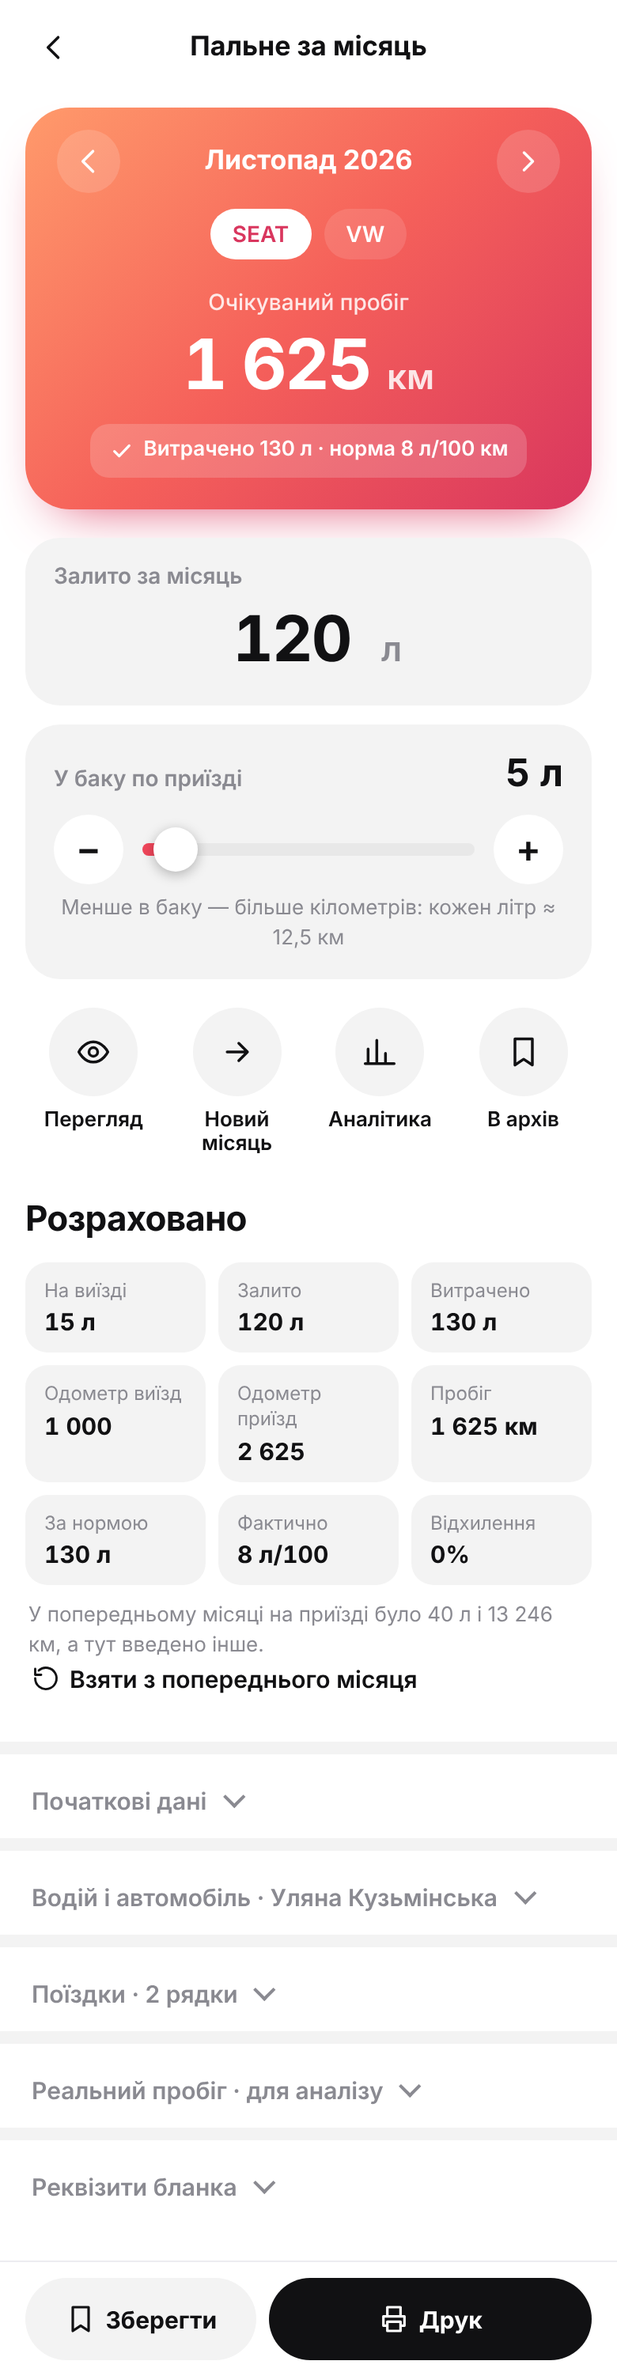
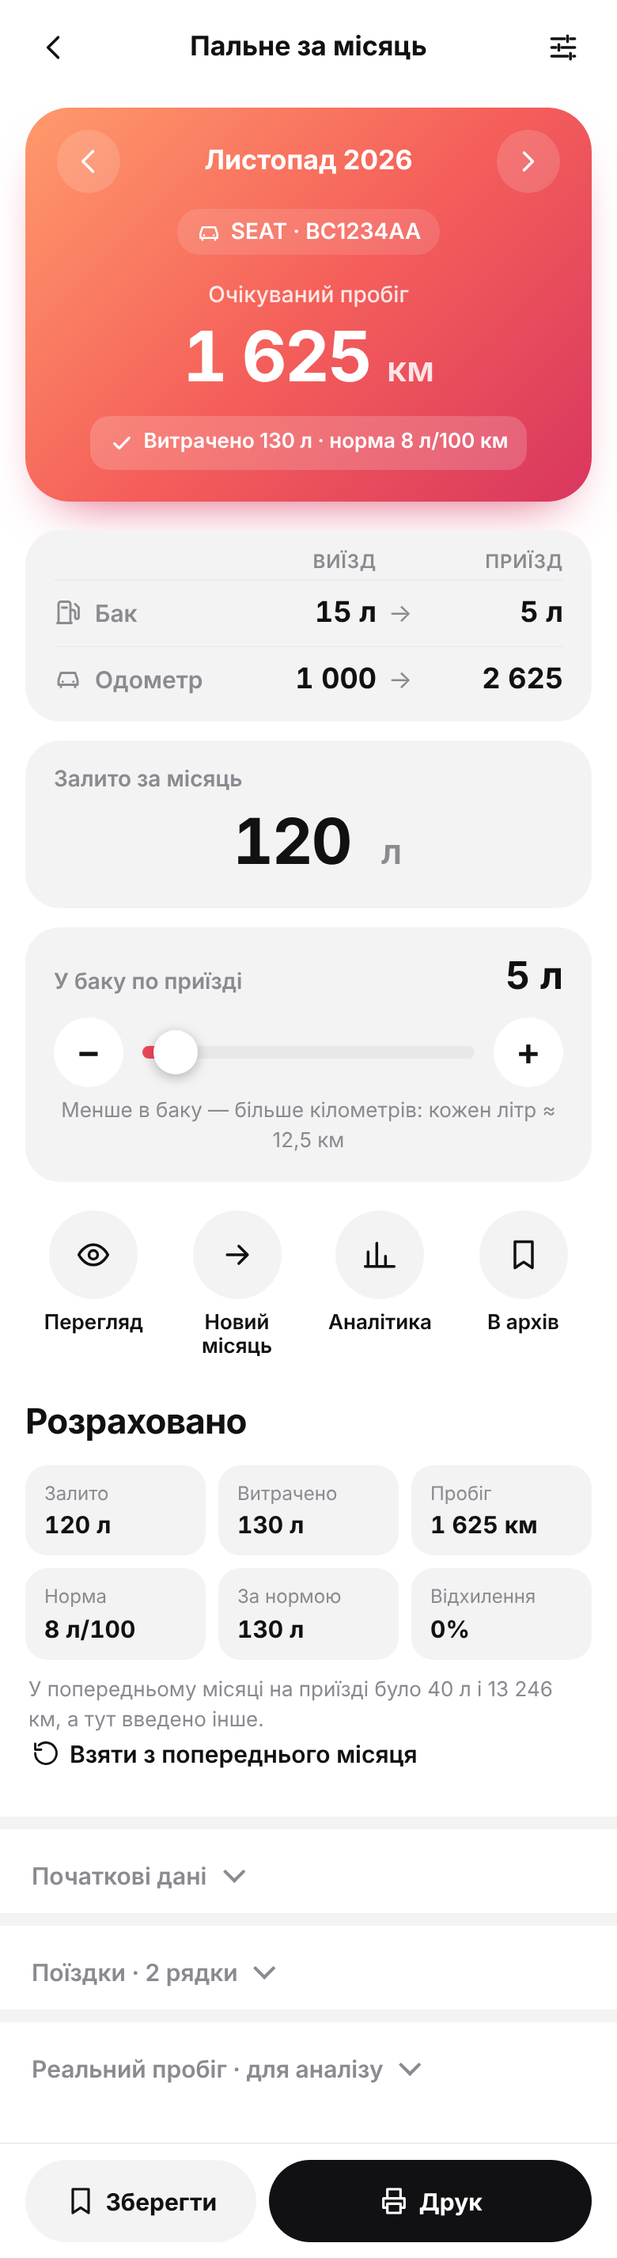
Fuel screen: SEAT only, car settings screen, departure/arrival tank and odometer card
Claude-Session: https://claude.ai/code/session_01MK9Aw3Yig429nqqad2jXvH

diff --git a/dist/app.js b/dist/app.js
@@ -13,13 +13,13 @@ let state=defaults(),storageOK=true,view='home',docType='order',deferredInstall,
 try{const saved=JSON.parse(localStorage.getItem(storageKey)||(session.user.role==='admin'?localStorage.getItem('zvit-v1'):null));if(saved&&saved.version===1&&saved.event&&saved.travel&&Array.isArray(saved.archive))state={...state,...saved,profile:{...state.profile,...saved.profile}}}catch{storageOK=false}
 migrateDirectories(state);
 state.travel.endTarget ??= state.travel.startFuel;state.travel.adjustmentKm ??= 0;
-const parentOf={event:'home',travel:'home',fuel:'travel',contacts:'profile',signer:'profile',accounts:'profile',password:'profile'};
+const parentOf={event:'home',travel:'home',fuel:'travel',carSettings:'travel',contacts:'profile',signer:'profile',accounts:'profile',password:'profile'};
 const rootOf=v=>parentOf[v]?rootOf(parentOf[v]):v;
 function save(){try{localStorage.setItem(storageKey,JSON.stringify(state));storageOK=true}catch{storageOK=false}}
 function toast(msg){$('#toast').textContent=msg;$('#toast').classList.add('show');clearTimeout(toast.timer);toast.timer=setTimeout(()=>$('#toast').classList.remove('show'),4000)}
 
 /* ---------- Іконки ---------- */
-const P={home:'M3 10.5 12 3l9 7.5V20a1 1 0 0 1-1 1h-5v-6H9v6H4a1 1 0 0 1-1-1z',doc:'M7 3h7l5 5v12a1 1 0 0 1-1 1H7a1 1 0 0 1-1-1V4a1 1 0 0 1 1-1zM14 3v5h5M9 13h6M9 17h6',car:'M5 17h14M6 17v2M18 17v2M4 13l2-6h12l2 6v4H4zM7.5 14.5h.01M16.5 14.5h.01',list:'M8 6h12M8 12h12M8 18h12M4 6h.01M4 12h.01M4 18h.01',user:'M12 12a4 4 0 1 0 0-8 4 4 0 0 0 0 8zM4 21a8 8 0 0 1 16 0',users:'M9 11a4 4 0 1 0 0-8 4 4 0 0 0 0 8zM2 21a7 7 0 0 1 14 0M16 3.5a4 4 0 0 1 0 7M18 14a6 6 0 0 1 4 7',right:'m9 6 6 6-6 6',left:'m15 5-7 7 7 7',plus:'M12 5v14M5 12h14',print:'M7 9V3h10v6M7 17H4v-7h16v7h-3M7 14h10v7H7z',eye:'M2 12s3.5-7 10-7 10 7 10 7-3.5 7-10 7S2 12 2 12zM12 15a3 3 0 1 0 0-6 3 3 0 0 0 0 6z',save:'M6 3h12v18l-6-4-6 4z',download:'M12 4v11M7 10l5 5 5-5M5 20h14',upload:'M12 20V9M7 14l5-5 5 5M5 4h14',phone:'M8 2h8a1 1 0 0 1 1 1v18a1 1 0 0 1-1 1H8a1 1 0 0 1-1-1V3a1 1 0 0 1 1-1zM11 18h2',x:'M6 6l12 12M18 6 6 18',building:'M4 21V5a1 1 0 0 1 1-1h9a1 1 0 0 1 1 1v16M15 9h4a1 1 0 0 1 1 1v11M3 21h18M8 8h3M8 12h3M8 16h3',pen:'M4 20h4L19 9l-4-4L4 16zM13 7l4 4',search:'M11 18a7 7 0 1 0 0-14 7 7 0 0 0 0 14zM20 20l-4-4',next:'M5 12h14M13 6l6 6-6 6',check:'M5 12.5l4.5 4.5L19 7',chart:'M4 20V10M10 20V4M16 20v-7M22 20H2',fuel:'M4 21V5a2 2 0 0 1 2-2h6a2 2 0 0 1 2 2v16M3 21h12M14 10h2a2 2 0 0 1 2 2v4a1.5 1.5 0 0 0 3 0V8l-3-3M7 8h4',back:'M3 12a9 9 0 1 0 3-6.7M3 4v5h5',key:'M15 7a4 4 0 1 0-3.5 5.9L10 14.5V17H7.5v2.5H5V21H2v-3l7.1-7.1A4 4 0 0 0 15 7zM16 6h.01',logout:'M15 4h3a2 2 0 0 1 2 2v12a2 2 0 0 1-2 2h-3M10 17l5-5-5-5M15 12H3'};
+const P={sliders:'M4 6h9M17 6h3M4 12h3M11 12h9M4 18h11M19 18h1M15 4v4M9 10v4M17 16v4',home:'M3 10.5 12 3l9 7.5V20a1 1 0 0 1-1 1h-5v-6H9v6H4a1 1 0 0 1-1-1z',doc:'M7 3h7l5 5v12a1 1 0 0 1-1 1H7a1 1 0 0 1-1-1V4a1 1 0 0 1 1-1zM14 3v5h5M9 13h6M9 17h6',car:'M5 17h14M6 17v2M18 17v2M4 13l2-6h12l2 6v4H4zM7.5 14.5h.01M16.5 14.5h.01',list:'M8 6h12M8 12h12M8 18h12M4 6h.01M4 12h.01M4 18h.01',user:'M12 12a4 4 0 1 0 0-8 4 4 0 0 0 0 8zM4 21a8 8 0 0 1 16 0',users:'M9 11a4 4 0 1 0 0-8 4 4 0 0 0 0 8zM2 21a7 7 0 0 1 14 0M16 3.5a4 4 0 0 1 0 7M18 14a6 6 0 0 1 4 7',right:'m9 6 6 6-6 6',left:'m15 5-7 7 7 7',plus:'M12 5v14M5 12h14',print:'M7 9V3h10v6M7 17H4v-7h16v7h-3M7 14h10v7H7z',eye:'M2 12s3.5-7 10-7 10 7 10 7-3.5 7-10 7S2 12 2 12zM12 15a3 3 0 1 0 0-6 3 3 0 0 0 0 6z',save:'M6 3h12v18l-6-4-6 4z',download:'M12 4v11M7 10l5 5 5-5M5 20h14',upload:'M12 20V9M7 14l5-5 5 5M5 4h14',phone:'M8 2h8a1 1 0 0 1 1 1v18a1 1 0 0 1-1 1H8a1 1 0 0 1-1-1V3a1 1 0 0 1 1-1zM11 18h2',x:'M6 6l12 12M18 6 6 18',building:'M4 21V5a1 1 0 0 1 1-1h9a1 1 0 0 1 1 1v16M15 9h4a1 1 0 0 1 1 1v11M3 21h18M8 8h3M8 12h3M8 16h3',pen:'M4 20h4L19 9l-4-4L4 16zM13 7l4 4',search:'M11 18a7 7 0 1 0 0-14 7 7 0 0 0 0 14zM20 20l-4-4',next:'M5 12h14M13 6l6 6-6 6',check:'M5 12.5l4.5 4.5L19 7',chart:'M4 20V10M10 20V4M16 20v-7M22 20H2',fuel:'M4 21V5a2 2 0 0 1 2-2h6a2 2 0 0 1 2 2v16M3 21h12M14 10h2a2 2 0 0 1 2 2v4a1.5 1.5 0 0 0 3 0V8l-3-3M7 8h4',back:'M3 12a9 9 0 1 0 3-6.7M3 4v5h5',key:'M15 7a4 4 0 1 0-3.5 5.9L10 14.5V17H7.5v2.5H5V21H2v-3l7.1-7.1A4 4 0 0 0 15 7zM16 6h.01',logout:'M15 4h3a2 2 0 0 1 2 2v12a2 2 0 0 1-2 2h-3M10 17l5-5-5-5M15 12H3'};
 const icon=(n,c='')=>`<svg class="ic ${c}" viewBox="0 0 24 24" aria-hidden="true"><path d="${P[n]}"/></svg>`;
 
 /* ---------- Будівельні блоки ---------- */
@@ -61,18 +61,21 @@ function tankMax(){const t=state.travel;return Math.max(1,Math.ceil(Number(t.sta
 function setMonth(month){const bounds=monthBounds(month);if(!bounds)return toast('Виберіть коректний місяць.');Object.assign(state.travel,bounds);state.travel.rows.forEach(row=>row.date=bounds.from);state.travel.refill=0;state.travel.realKm='';state.travel.adjustmentKm=0;delete state.travel.autoBasisMonth;return previousFuel().then(()=>{save();render()})}
 const shiftMonth=(from,d)=>{const x=new Date(from.slice(0,7)+'-15T12:00:00Z');x.setUTCMonth(x.getUTCMonth()+d);return x.toISOString().slice(0,7)};
 function travelView(){prepareMonthly();if(!fuelLoaded)loadFuel().then(ok=>{if(ok&&view==='travel'){const row=previousMonthRecord(fuelRows,state.travel);if(row&&state.travel.refill===0&&!state.travel.autoBasisMonth){const result=travelCalc(row);Object.assign(state.travel,{odometer:result.endOdo,startFuel:result.endFuel,endTarget:result.endFuel,rate:row.rate,autoBasisMonth:state.travel.from.slice(0,7),basis:'попередній місяць '+row.from.slice(0,7)});Object.assign(state.travel,filledTravel(state.travel));}render();}});
- const t=state.travel,car=t.car.trim().toUpperCase();return {title:'Пальне за місяць',
- body:`<section class="hero fuel-hero"><div class="month-switch"><button class="round glass" data-action="month-prev" aria-label="Попередній місяць">${icon('left')}</button><b>${esc(monthName(t.from).replace(/ р\.$/,''))}</b><button class="round glass" data-action="month-next" aria-label="Наступний місяць">${icon('right')}</button></div><div class="car-switch">${btn('SEAT','preset-seat','chip glass'+(car==='SEAT'?' on':''))}${btn('VW','preset-vw','chip glass'+(car==='VW'?' on':''))}${car&&car!=='SEAT'&&car!=='VW'?`<span class="chip glass on">${esc(t.car)}</span>`:''}</div><span class="hero-label">Очікуваний пробіг</span><div class="hero-amount" id="km-total"></div><div class="hero-status" id="fuel-status"></div></section>
+ const t=state.travel,car=t.car.trim().toUpperCase();return {title:'Пальне за місяць',right:`<button class="round ghost" data-action="car-settings" aria-label="Налаштування авто">${icon('sliders')}</button>`,
+ body:`<section class="hero fuel-hero"><div class="month-switch"><button class="round glass" data-action="month-prev" aria-label="Попередній місяць">${icon('left')}</button><b>${esc(monthName(t.from).replace(/ р\.$/,''))}</b><button class="round glass" data-action="month-next" aria-label="Наступний місяць">${icon('right')}</button></div><button class="car-line" data-action="car-settings">${icon('car')}${esc([t.car,t.plate].filter(Boolean).join(' · ')||'Авто не вказано')}</button><span class="hero-label">Очікуваний пробіг</span><div class="hero-amount" id="km-total"></div><div class="hero-status" id="fuel-status"></div></section>
+ <section class="journey"><div class="j-head"><span></span><span>Виїзд</span><span></span><span>Приїзд</span></div><div class="j-row"><span>${icon('fuel')}Бак</span><b id="j-fuel-start"></b><i>→</i><b id="j-fuel-end"></b></div><div class="j-row"><span>${icon('car')}Одометр</span><b id="j-odo-start"></b><i>→</i><b id="j-odo-end"></b></div></section>
  <section class="fuel-input"><label for="refill-input">Залито за місяць</label><div class="amount-input"><input id="refill-input" type="number" inputmode="decimal" min="0" step="0.01" data-key="travel.refill" value="${esc(t.refill||'')}" style="width:${String(t.refill||'0').length+.6}ch" placeholder="0"><span>л</span></div></section>
  <section class="fuel-input tank"><div class="tank-head"><label for="tank-range">У баку по приїзді</label><b id="tank-value"></b></div><div class="tank-row"><button class="round soft" data-action="tank-minus" aria-label="Менше на 1 л">−</button><input id="tank-range" type="range" min="0" max="${tankMax()}" step="0.5" data-key="travel.endTarget" value="${esc(t.endTarget)}"><button class="round soft" data-action="tank-plus" aria-label="Більше на 1 л">+</button></div><p class="hint center" id="tank-hint"></p></section>
  ${quick(['eye','Перегляд','travel-preview'],['next','Новий місяць','next-period'],['chart','Аналітика','fuel-analytics'],['save','В архів','save-travel'])}
  ${group('Розраховано',`<div class="stat-grid" id="fuel-stats"></div>${previousLine()}`)}
- <details class="group more"><summary>Початкові дані</summary><div class="card"><div class="field-grid">${field('Залишок на виїзді, л','travel.startFuel',t.startFuel,'number','min="0" step="0.01" inputmode="decimal"')}${field('Одометр на виїзді, км','travel.odometer',t.odometer,'number','min="0" step="0.01" inputmode="decimal"')}${field('Норма, л/100 км','travel.rate',t.rate,'number','min="0.01" step="0.01" inputmode="decimal"')}${field('Поправка, ± км','travel.adjustmentKm',t.adjustmentKm,'number','step="0.1"')}</div><div class="card-foot">${btn(icon('back')+'Підтягнути з попереднього місяця','fuel-previous','link')}</div></div></details>
- <details class="group more"><summary>Водій і автомобіль${t.driver?` · ${esc(t.driver)}`:''}</summary><div class="card">${contactPicker('representatives','travel')}${field('Водій','travel.driver',t.driver,'text','maxlength="180"')}<div class="field-grid">${field('Автомобіль','travel.car',t.car,'text','maxlength="120"')}${field('Держномер','travel.plate',t.plate,'text','maxlength="30"')}</div></div></details>
+ <details class="group more"><summary>Початкові дані</summary><div class="card"><div class="field-grid">${field('Залишок на виїзді, л','travel.startFuel',t.startFuel,'number','min="0" step="0.01" inputmode="decimal"')}${field('Одометр на виїзді, км','travel.odometer',t.odometer,'number','min="0" step="0.01" inputmode="decimal"')}${field('Поправка, ± км','travel.adjustmentKm',t.adjustmentKm,'number','step="0.1"')}</div><div class="card-foot">${btn(icon('back')+'Підтягнути з попереднього місяця','fuel-previous','link')}</div></div></details>
  <details class="group more"><summary>Поїздки · ${plural(t.rows.length,'рядок','рядки','рядків')}</summary><div class="card"><div id="trip-rows">${tripRows()}</div><button class="add-row" data-action="add-trip">${icon('plus')}Додати поїздку</button>${t.rows.length>1?`<div class="card-foot">${btn('Розподілити порівну','split-trips','link')}</div>`:''}</div></details>
- <details class="group more"><summary>Реальний пробіг · для аналізу</summary><div class="card">${field('За період, км','travel.realKm',t.realKm??'','number','min="0" step="0.1" inputmode="decimal"')}<div id="real-comparison"></div></div></details>
- <details class="group more"><summary>Реквізити бланка</summary><div class="card"><div class="field-grid">${field('Номер листа','travel.number',t.number||'','text','maxlength="30"')}${field('Режим роботи','travel.workMode',t.workMode||'','text','maxlength="80"')}${field('Марка пального','travel.fuelBrand',t.fuelBrand||'','text','maxlength="30"')}${field('Код марки','travel.fuelCode',t.fuelCode||'','text','maxlength="20"')}${field('Час виїзду','travel.departTime',t.departTime||'','time')}${field('Час повернення','travel.returnTime',t.returnTime||'','time')}${field('Годин у наряді','travel.hours',t.hours||'','number','min="0" step="0.1"')}${field('Колона','travel.column',t.column||'','text','maxlength="30"')}${field('Бригада','travel.brigade',t.brigade||'','text','maxlength="30"')}</div>${field('Особливі відмітки','travel.notes',t.notes||'','text','maxlength="300"')}</div></details>`,
+ <details class="group more"><summary>Реальний пробіг · для аналізу</summary><div class="card">${field('За період, км','travel.realKm',t.realKm??'','number','min="0" step="0.1" inputmode="decimal"')}<div id="real-comparison"></div></div></details>`,
  bar:`<div class="bar-2"><button class="button secondary" data-action="save-month">${icon('save')}Зберегти</button><button class="button" data-action="print-travel">${icon('print')}Друк</button></div>`}}
+function carSettingsView(){const t=state.travel;return {title:'Налаштування авто',body:`<p class="hint" style="margin:0 2px 18px">Ці дані не змінюються щомісяця й автоматично підставляються в подорожній лист.</p>
+ ${group('Автомобіль',`<div class="field-grid">${field('Марка','travel.car',t.car,'text','maxlength="120"')}${field('Держномер','travel.plate',t.plate,'text','maxlength="30"')}</div>${field('Норма витрати, л/100 км','travel.rate',t.rate,'number','min="0.01" step="0.01" inputmode="decimal"')}`)}
+ ${group('Водій',`${contactPicker('representatives','travel')}${field('ПІБ водія','travel.driver',t.driver,'text','maxlength="180"')}`)}
+ ${group('Реквізити бланка',`<div class="field-grid">${field('Номер листа','travel.number',t.number||'','text','maxlength="30"')}${field('Режим роботи','travel.workMode',t.workMode||'','text','maxlength="80"')}${field('Марка пального','travel.fuelBrand',t.fuelBrand||'','text','maxlength="30"')}${field('Код марки','travel.fuelCode',t.fuelCode||'','text','maxlength="20"')}${field('Час виїзду','travel.departTime',t.departTime||'','time')}${field('Час повернення','travel.returnTime',t.returnTime||'','time')}${field('Годин у наряді','travel.hours',t.hours||'','number','min="0" step="0.1"')}${field('Колона','travel.column',t.column||'','text','maxlength="30"')}${field('Бригада','travel.brigade',t.brigade||'','text','maxlength="30"')}</div>${field('Особливі відмітки','travel.notes',t.notes||'','text','maxlength="300"')}`)}`}}
 function tripRows(){const result=travelCalc(state.travel);return state.travel.rows.map((r,i)=>{const last=i===state.travel.rows.length-1;return `<div class="trip"><div class="trip-top"><b>Поїздка ${i+1}</b>${last&&state.travel.rows.length>1?'<span class="tag">решта пробігу</span>':''}<button class="icon-btn" data-remove-trip="${i}" aria-label="Видалити поїздку ${i+1}" ${state.travel.rows.length===1?'disabled':''}>${icon('x')}</button></div><input aria-label="Маршрут поїздки ${i+1}" placeholder="Маршрут: звідки → куди" data-trip="${i}" data-prop="route" value="${esc(r.route)}" maxlength="200"><div class="field-grid"><label class="field"><span>Дата</span><input type="date" data-trip="${i}" data-prop="date" value="${esc(r.date)}"></label><label class="field"><span>Пробіг, км</span><div class="stepper">${last?'':`<button data-step-trip="${i}" data-step="-1" aria-label="Зменшити пробіг поїздки ${i+1}">−</button>`}<input type="number" min="0" step="0.01" inputmode="decimal" aria-label="Пробіг поїздки ${i+1}" data-trip="${i}" data-prop="km" value="${last?result.rows?.[i]?.km??0:r.km}" ${last?'readonly data-last-km':''}>${last?'':`<button data-step-trip="${i}" data-step="1" aria-label="Збільшити пробіг поїздки ${i+1}">+</button>`}</div></label></div></div>`}).join('')}
 
 /* ---------- Аналітика пального ---------- */
@@ -157,7 +160,7 @@ async function saveFuel(){prepareMonthly();if(!validFuel(state.travel))throw Err
 async function previousFuel(){if(!await loadFuel())return;prepareMonthly();const t=state.travel,row=previousMonthRecord(fuelRows,t);if(!row){render();return toast('Немає запису за попередній місяць. Початкові дані залишено для ручного введення.');}const r=travelCalc(row);Object.assign(t,{odometer:r.endOdo,startFuel:r.endFuel,endTarget:r.endFuel,rate:row.rate,autoBasisMonth:t.from.slice(0,7),basis:'попередній місяць '+row.from.slice(0,7)});Object.assign(t,filledTravel(t));save();render();}
 
 /* ---------- Рендер ---------- */
-const views={home:homeView,event:eventView,travel:travelView,fuel:fuelView,archive:archiveView,profile:profileView,contacts:contactsView,signer:signerView,password:passwordView,accounts:accountsView};
+const views={home:homeView,event:eventView,travel:travelView,fuel:fuelView,archive:archiveView,profile:profileView,contacts:contactsView,signer:signerView,password:passwordView,accounts:accountsView,carSettings:carSettingsView};
 function render(){
  const v=views[view](),pushed=!!parentOf[view];
  document.body.dataset.view=view;document.body.classList.toggle('pushed',pushed);
@@ -178,7 +181,7 @@ function updateDerived(){
   const range=$('#tank-range');if(range){const max=tankMax();if(+range.max!==max)range.max=max;if(document.activeElement!==range)range.value=t.endTarget;range.style.setProperty('--p',Math.min(100,Number(t.endTarget)/max*100)+'%')}
   const ri=$('#refill-input');if(ri)ri.style.width=(ri.value||'0').length+.6+'ch';const tv=$('#tank-value');if(tv)tv.textContent=num(t.endTarget)+' л';
   const th=$('#tank-hint');if(th)th.textContent=r.error?'':`Менше в баку — більше кілометрів: кожен літр ≈ ${num(round(100/Number(t.rate||1),1))} км`;
-  const fs=$('#fuel-stats');if(fs)fs.innerHTML=[['На виїзді',v(Number(t.startFuel),' л')],['Залито',v(Number(t.refill),' л')],['Витрачено',v(Number(t.liters),' л')],['Одометр виїзд',v(Number(t.odometer))],['Одометр приїзд',v(r.endOdo)],['Пробіг',v(r.total,' км')],['За нормою',v(r.normFuel,' л')],['Фактично',v(r.actualRate,' л/100')],['Відхилення',v(r.deviation,'%')]].map(([a,b])=>`<div><span>${a}</span><b>${b}</b></div>`).join('');
+  [['#j-fuel-start',v(Number(t.startFuel),' л')],['#j-fuel-end',v(Number(t.endTarget),' л')],['#j-odo-start',v(Number(t.odometer))],['#j-odo-end',r.error?'—':v(r.endOdo)]].forEach(([q,x])=>{const el=$(q);if(el)el.textContent=x});const fs=$('#fuel-stats');if(fs)fs.innerHTML=[['Залито',v(Number(t.refill),' л')],['Витрачено',v(Number(t.liters),' л')],['Пробіг',v(r.total,' км')],['Норма',v(Number(t.rate),' л/100')],['За нормою',v(r.normFuel,' л')],['Відхилення',v(r.deviation,'%')]].map(([a,b])=>`<div><span>${a}</span><b>${b}</b></div>`).join('');
   const rc=$('#real-comparison');if(rc)rc.innerHTML=`<p class="hint">${r.realDifference===null?'Реальний пробіг не потрапляє до друкованого листа.':`Реальний − звітний: ${num(r.realDifference)} км (${num(r.realPercent)}%). Витрата за реальним: ${r.realRate===null?'—':num(r.realRate)} л/100 км.`}</p>`;
   const last=$('[data-last-km]');if(last)last.value=r.rows?.at(-1)?.km??0}
 }
@@ -219,6 +222,7 @@ document.addEventListener('click',async ev=>{const el=ev.target.closest('button'
   case 'month-prev':case 'month-next':await setMonth(shiftMonth(state.travel.from,a==='month-prev'?-1:1));break;
   case 'tank-minus':case 'tank-plus':{const t=state.travel;t.endTarget=Math.max(0,round(Number(t.endTarget)+(a==='tank-plus'?1:-1)));prepareMonthly();save();updateDerived();break}
   case 'open-signer':go('signer');break;
+  case 'car-settings':go('carSettings');break;
   case 'open-password':go('password');break;
   case 'contacts-clinics':case 'contacts-representatives':contactKind=a.slice(9);if(!state[contactKind].length)contactForm[contactKind]=true;go('contacts');break;
   case 'add-contact':contactForm[contactKind]=true;render();document.querySelector(`[data-directory="${contactKind}"]`)?.focus();break;

diff --git a/dist/style.css b/dist/style.css
@@ -145,6 +145,9 @@ body.has-bar .actionbar{grid-template-columns:1fr}.button.pill{height:56px;borde
 .tank-row input[type=range]{flex:1;border:0;padding:0;box-shadow:none;outline:0;min-width:0;-webkit-appearance:none;appearance:none;height:8px;border-radius:4px;background:linear-gradient(90deg,var(--accent) var(--p,50%),var(--soft) var(--p,50%));margin:0;cursor:pointer}
 .tank-row input[type=range]::-webkit-slider-thumb{-webkit-appearance:none;width:28px;height:28px;border-radius:50%;background:#fff;box-shadow:0 2px 8px #0004;border:0}.tank-row input[type=range]::-moz-range-thumb{width:28px;height:28px;border-radius:50%;background:#fff;box-shadow:0 2px 8px #0004;border:0}
 .hint.center{text-align:center}.fuel-input+.quick{margin-top:18px}
+.car-line{display:flex;width:fit-content;align-items:center;gap:6px;margin:0 auto 14px;padding:6px 12px;border-radius:14px;background:#ffffff1f;color:#fff;font-size:14px;font-weight:600}.car-line .ic{width:16px;height:16px;stroke:#fff}
+.journey{background:var(--tile);border-radius:22px;padding:12px 18px 6px;margin:0 0 12px}.journey .j-head,.journey .j-row{display:grid;grid-template-columns:1.25fr 1fr 18px 1fr;align-items:center;gap:6px}.journey .j-head{font-size:12px;font-weight:600;color:var(--muted);text-transform:uppercase;letter-spacing:.4px;padding-bottom:4px}.journey .j-head span:nth-child(n+2),.journey b{text-align:right}
+.journey .j-row{padding:10px 0;border-top:1px solid var(--line)}.journey .j-row span{display:flex;align-items:center;gap:8px;font-weight:600;color:var(--muted);font-size:15px}.journey .j-row .ic{width:18px;height:18px}.journey b{font-size:18px;font-weight:700;font-variant-numeric:tabular-nums;white-space:nowrap}.journey i{font-style:normal;color:var(--muted);text-align:center}
 .row.picker-empty{background:var(--tile);border-radius:16px;margin:0 0 12px;padding:10px 14px}.row.picker-empty .avatar{background:var(--bg)}.row.picker-empty>.ic{color:var(--muted)}
 .fuel-hero~details.more{margin:0 -16px;padding:4px 16px;border-top:1px solid var(--line)}.fuel-hero~details.more[open]{padding-bottom:16px}.fuel-hero~.group+details.more{border-top:8px solid var(--tile);padding-top:10px}@media(min-width:640px){.fuel-hero~details.more{margin:0;padding-left:0;padding-right:0}}
 body.has-bar .actionbar:has(.bar-2){grid-template-columns:1fr}.bar-2{display:grid;grid-template-columns:1fr 1.4fr;gap:8px}.bar-2 .button{height:52px;border-radius:26px;font-size:15px}
